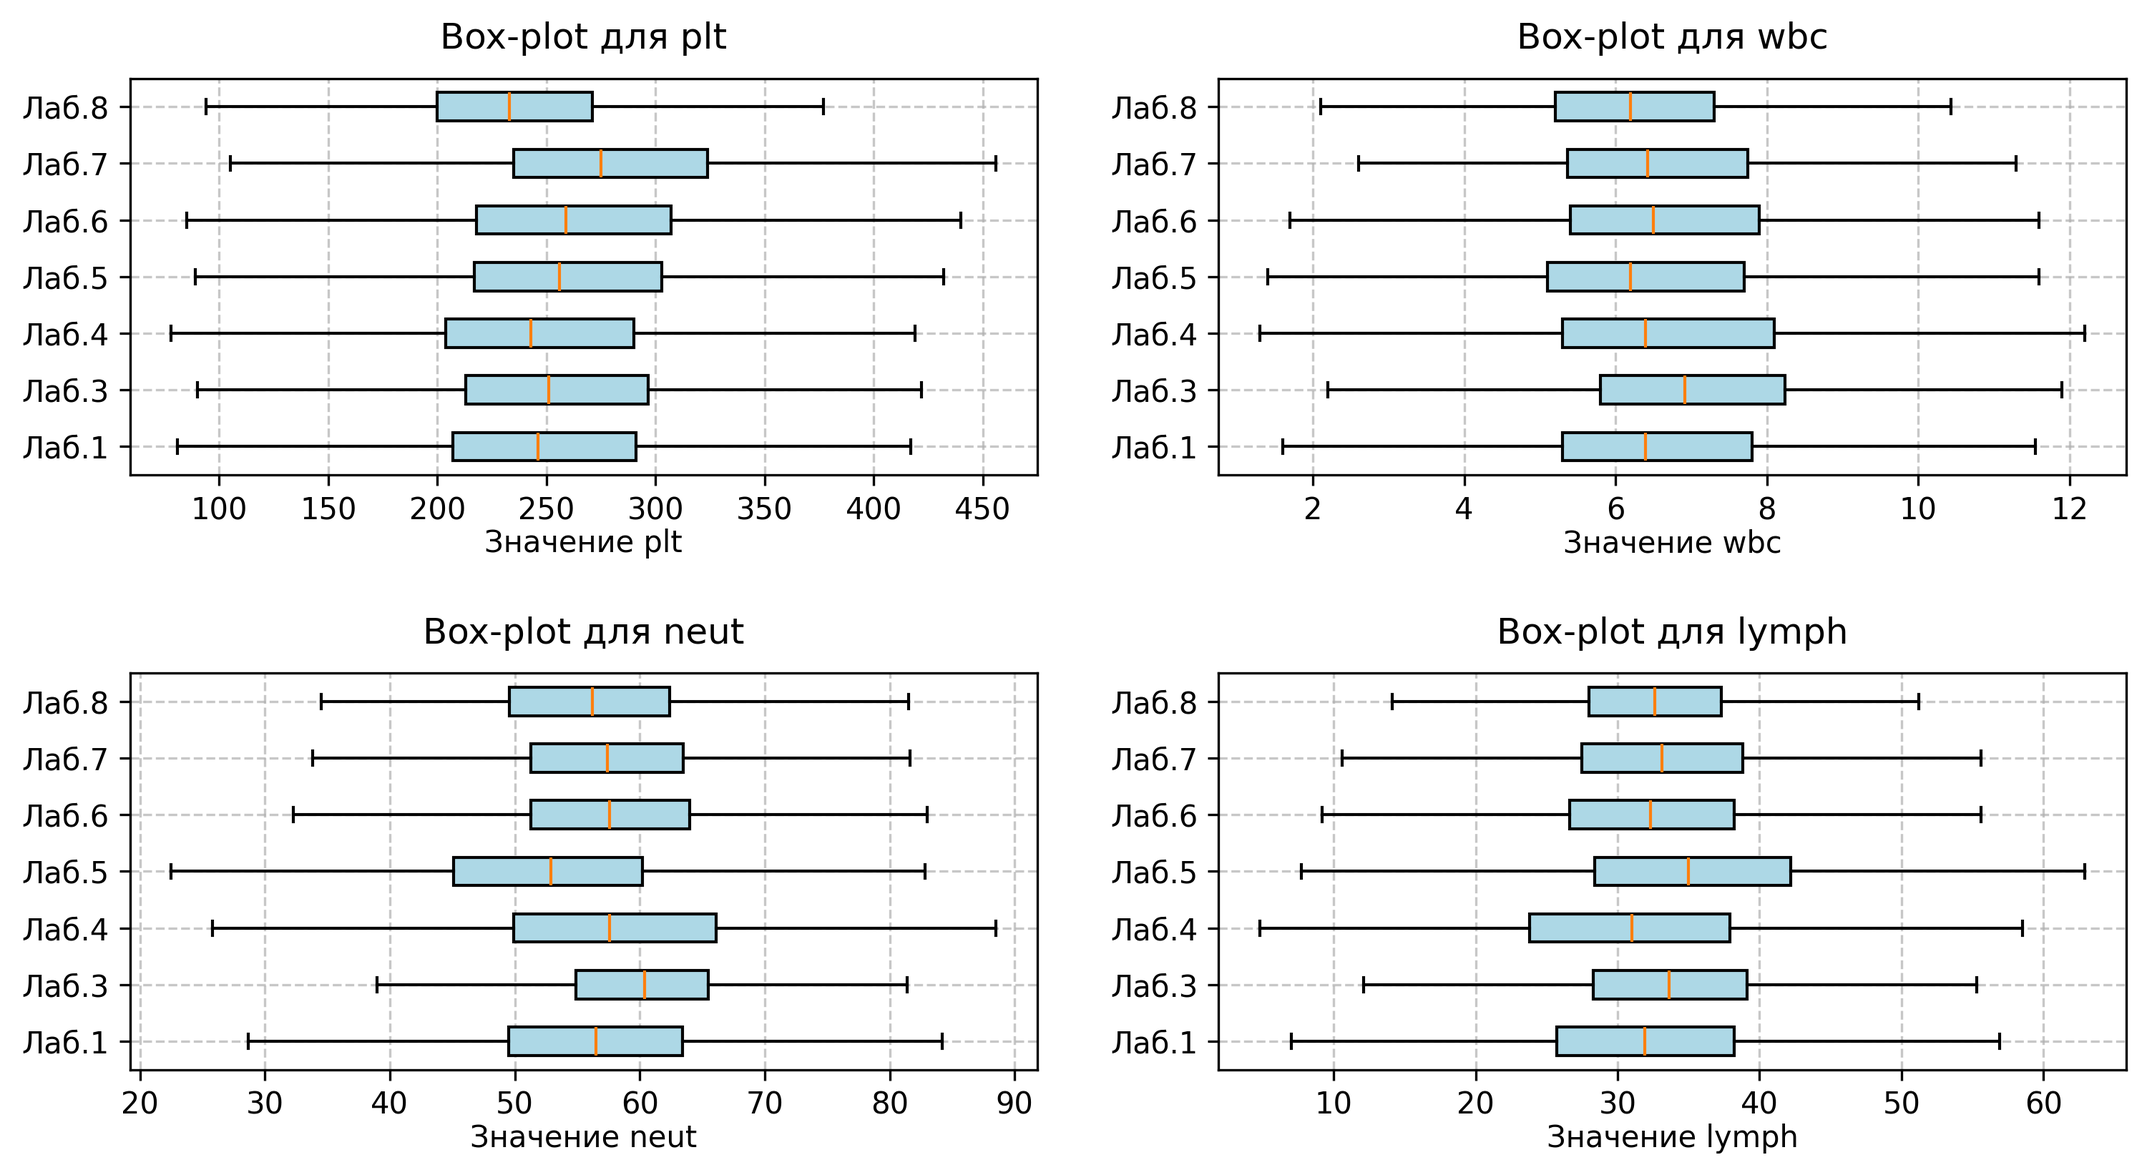
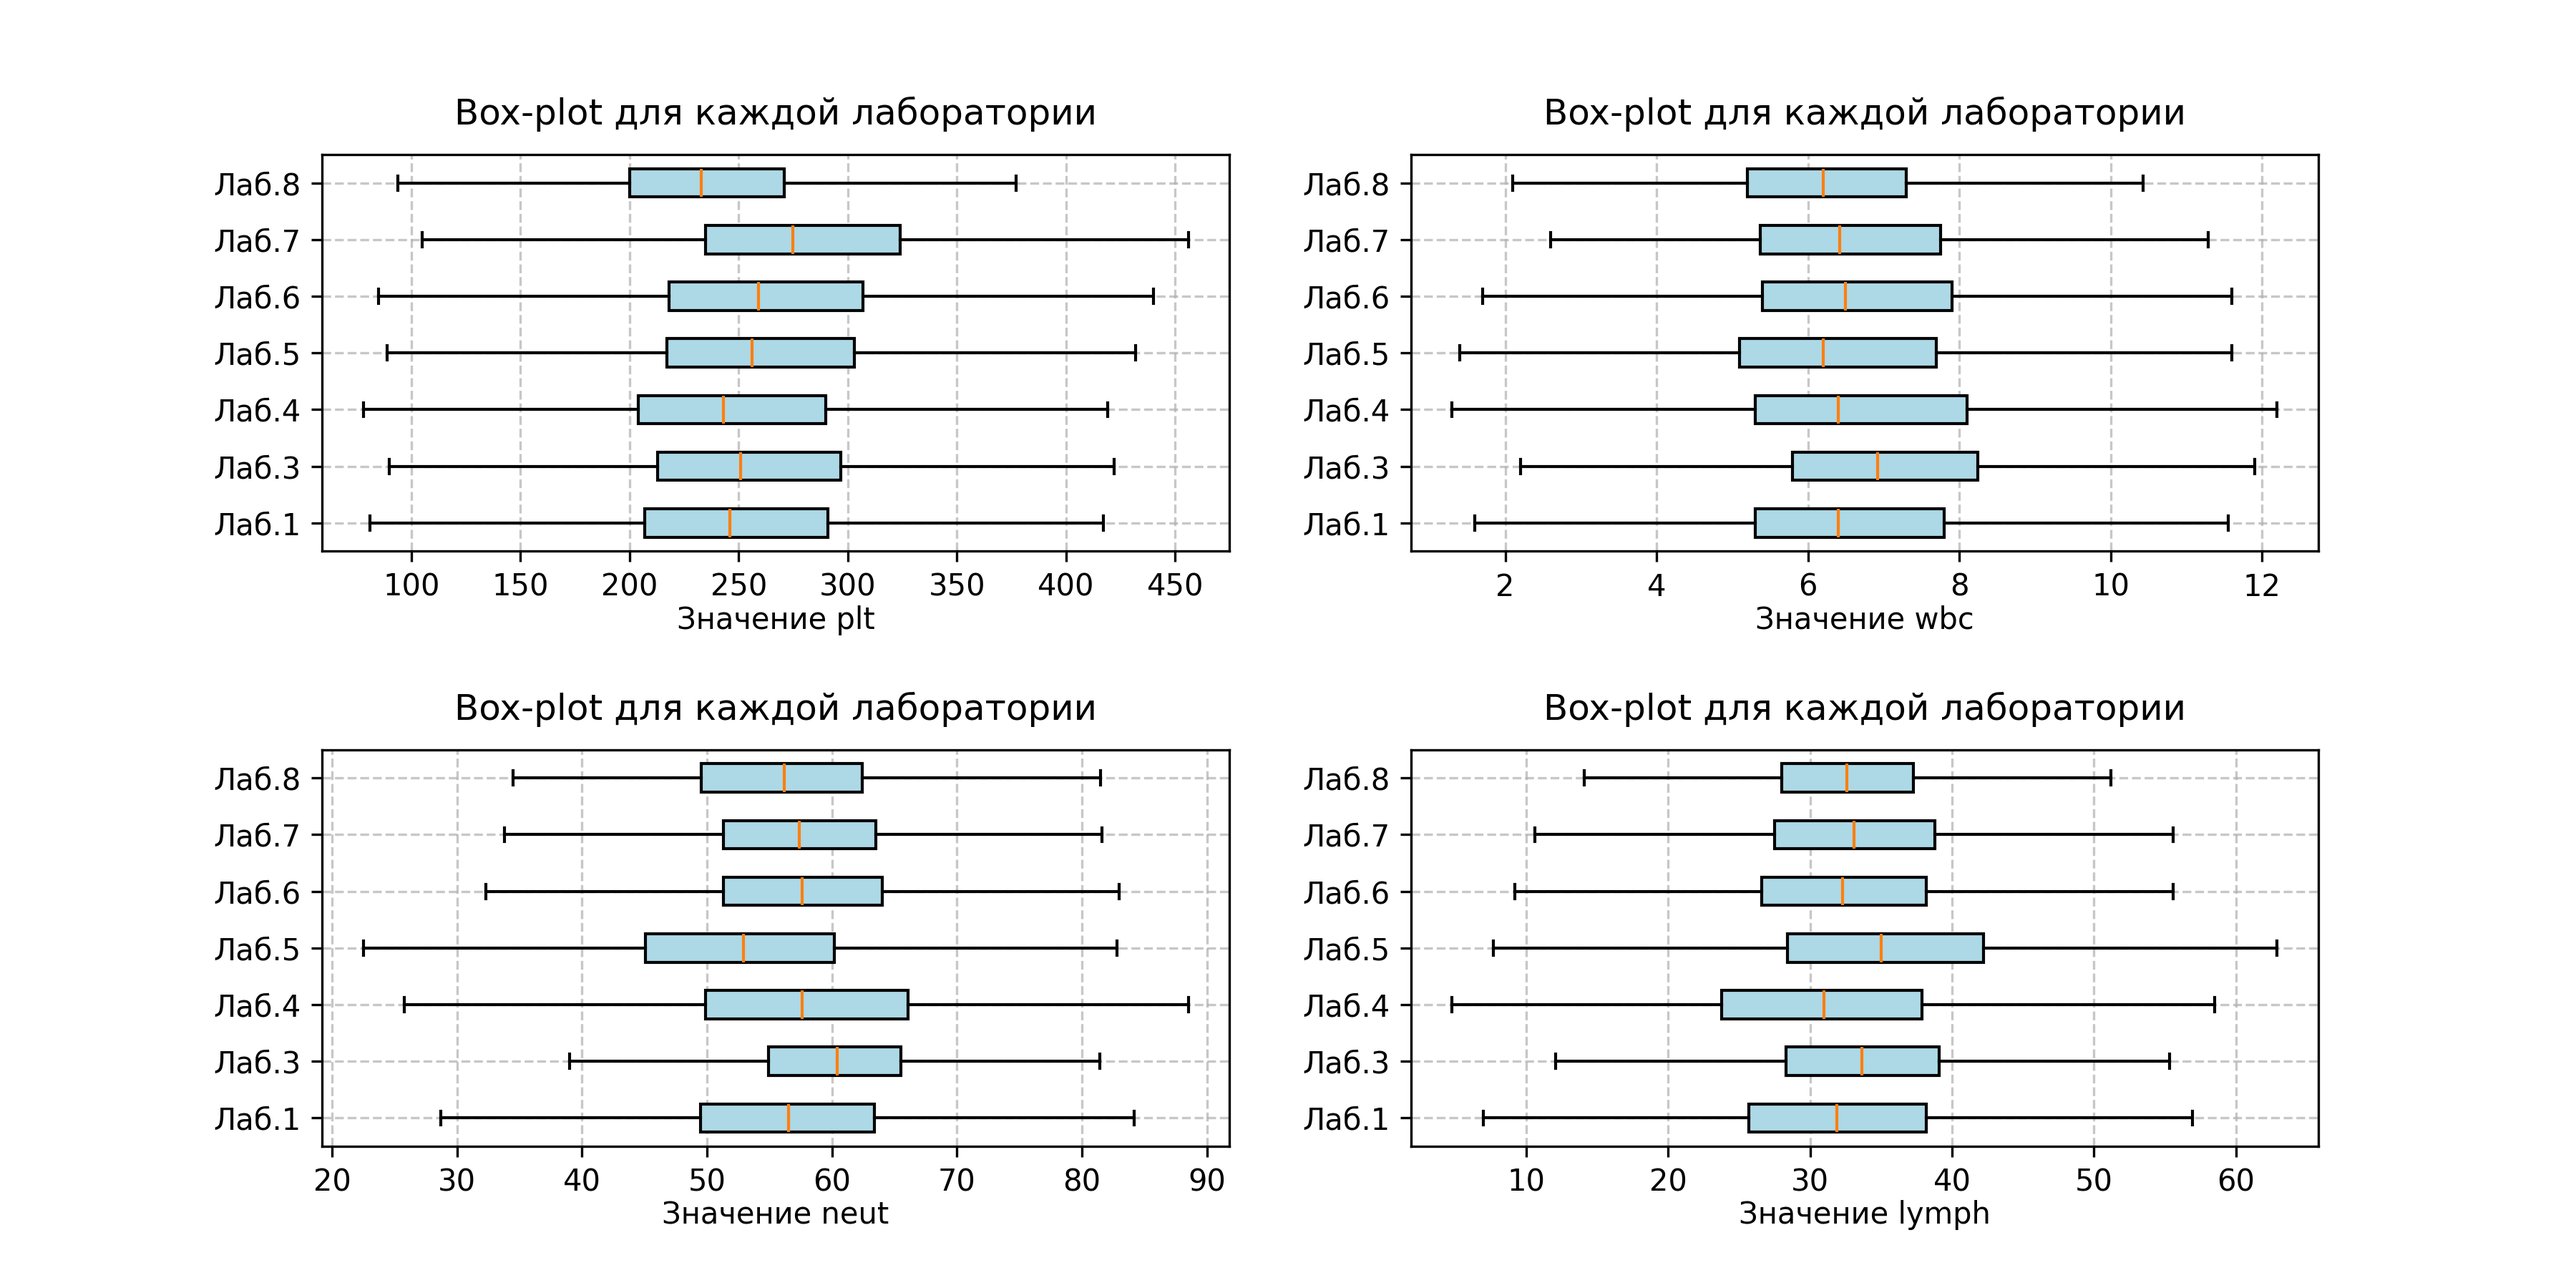
small refactor..

diff --git a/build_box_plots.py b/build_box_plots.py
@@ -26,7 +26,6 @@ labs_id = np.unique(df["lab_id"].values.ravel())
 print(labs_id)
 print(labs_id.size)
 
-z_score = 1.96
 for g in range(len(labels) // 4):
     rows, cols = 2, 2
     fig, axes = plt.subplots(rows, cols, figsize=(12, 6))
@@ -36,40 +35,37 @@ for g in range(len(labels) // 4):
             axes[i, j].set_title(f"Box-plot для каждой лаборатории", pad=10)
             axes[i, j].set_xlabel(f"Значение {parameter}", labelpad=1)
 
+            data_to_plot = []
+            positions = []
+            labs = []
             for k in range(labs_id.size):
-                lab = f"lab_id{labs_id[k]}"
-                data = df[df["lab_id"] == labs_id[k]].filter(items=[parameter])
+                lab_id = labs_id[k]
+                lab = f"lab_id{lab_id}"
+                data = df[df["lab_id"] == lab_id].filter(items=[parameter])
                 data.dropna(inplace=True, ignore_index=True)
 
-                min_value = float((data[parameter].min()))
-                max_value = float((data[parameter].max()))
-                mean_value = float((data[parameter].mean()))
                 std_value = float((data[parameter].std()))
-
-                low, high = (
-                    mean_value - z_score * std_value,
-                    mean_value + z_score * std_value,
-                )
-                # data = data[(data[parameter] >= low) & (data[parameter] <= high)]
 
                 if math.isnan(std_value):
                     print(
-                        f"Дисперсия NaN у показателя {parameter} в лаборатории {labs_id[k]}"
+                        f"Дисперсия NaN у показателя {parameter} в лаборатории {lab_id}"
                     )
                     continue
+                data_to_plot.append(data[parameter])
+                positions.append(k + 1)
+                labs.append(f"Лаб.{lab_id}")
 
-                axes[i, j].boxplot(
-                    data[parameter],
-                    vert=False,
-                    patch_artist=True,
-                    boxprops=dict(facecolor="lightblue"),
-                    tick_labels=[f"Лаб.{labs_id[k]}"],
-                )
-            # axes[i, j].legend(loc="upper right", fontsize="small", framealpha=0.5)
+            axes[i, j].boxplot(
+                data_to_plot,
+                positions=positions,
+                vert=False,
+                patch_artist=True,
+                boxprops=dict(facecolor="lightblue"),
+                showfliers=False,
+            )
+            axes[i, j].set_yticks(positions)
+            axes[i, j].set_yticklabels(labs)
+            axes[i, j].grid(visible=True, linestyle="--", alpha=0.7)
     plt.subplots_adjust(hspace=0.5)
-    """
-    plt.savefig(
-        f"./browse_data_images/lab_dist_page_{g + 1}.png", dpi=300, bbox_inches="tight"
-    )
-    """
+    plt.savefig(f"./browse_data_images/box_plots_page_{g + 1}.png", dpi=300)
     plt.show()
